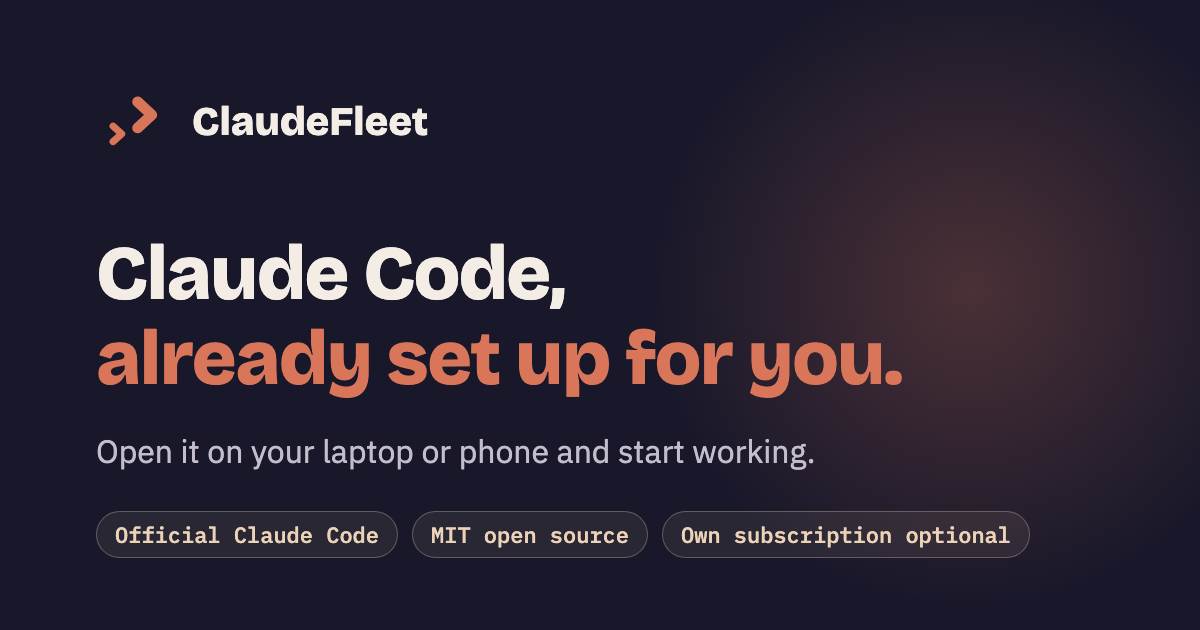
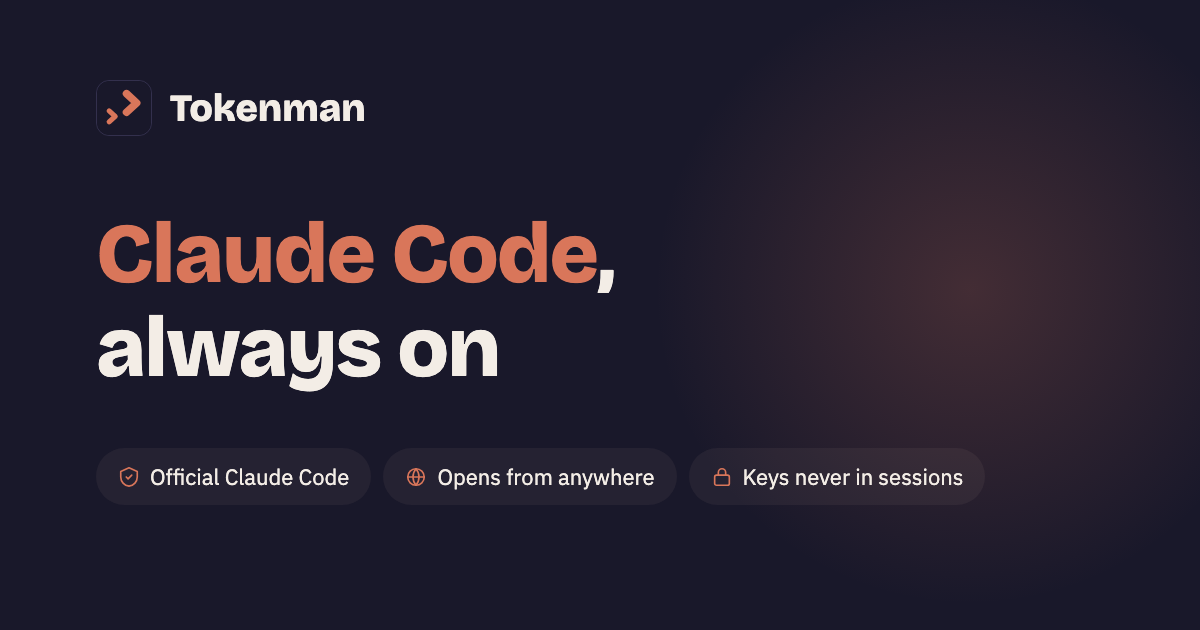
MXQP (SGS6 B1): 官网与文档换成 Tokenman — one brand key in site strings, docs and share cards read it
site/strings.{zh,en}.json gain brand (Tokenman) + brand_tag (zh: 随时在线的 Claude Code);
every other string says {brand}, filled by site-build. Template wordmark / og:site_name /
demo sidebar, legal frame + bodies, JSON-LD names, robots / llms headers all read it.
docs-build takes its name from the same key (was logo.svg's <title>, which B2 changes
together with the web-console / web-chat dist rebuild). Share cards redrawn from the
page's own brand, h1 and trust chips. Docs index titles and the FAQ's first line say
Tokenman.

diff --git a/site/template.html b/site/template.html
@@ -10,7 +10,7 @@
 <link rel="alternate" hreflang="en" href="__ORIGIN__/en/">
 <link rel="alternate" hreflang="x-default" href="__ORIGIN__/en/">
 <meta property="og:type" content="website">
-<meta property="og:site_name" content="ClaudeFleet">
+<meta property="og:site_name" content="{{brand}}">
 <meta property="og:title" content="{{title}}">
 <meta property="og:description" content="{{og_description}}">
 <meta property="og:url" content="__ORIGIN__{{path}}">
@@ -52,6 +52,7 @@ svg.i{fill:none;stroke:currentColor;stroke-width:1.8;stroke-linecap:round;stroke
 .nav .wrap{display:flex;align-items:center;height:60px;gap:14px}
 .brand{display:flex;align-items:center;gap:10px;font:750 19px/1 var(--fleet-font-display)}
 .brand svg{width:30px;height:30px}
+.brand .tag{margin-left:8px;font:500 12px/1.3 var(--fleet-font-ui);color:var(--fleet-ink-2)}
 .nav-r{margin-left:auto;display:flex;align-items:center;gap:22px;font-size:15px}
 .nav-r a{color:var(--fleet-ink-2)} .nav-r a:hover{color:var(--fleet-ink)}
 .lang{display:inline-flex;align-items:center;gap:5px;font:400 13px/1 var(--fleet-font-ui);color:var(--fleet-muted)!important}
@@ -192,7 +193,7 @@ footer .disc a{text-decoration:underline;text-underline-offset:2px}
 <svg width="0" height="0" style="position:absolute" aria-hidden="true"><symbol id="mk" viewBox="0 0 64 64"><rect width="64" height="64" rx="15" fill="var(--fleet-bg)" stroke="var(--fleet-line)"/><polyline points="14.4,35.5 21.6,42 14.4,48.5" fill="none" stroke="var(--fleet-clay)" stroke-width="6" stroke-linecap="round" stroke-linejoin="round"/><polyline points="35,15 47,26 35,37" fill="none" stroke="var(--fleet-clay)" stroke-width="9" stroke-linecap="round" stroke-linejoin="round"/></symbol><symbol id="wxm" viewBox="0 0 24 24"><path fill="#fff" d="M9.2 4C5.2 4 2 6.7 2 10.1c0 1.9 1 3.6 2.6 4.7l-.6 2 2.3-1.2c.9.3 1.9.4 2.9.4h.6a5.4 5.4 0 0 1-.2-1.5c0-3.3 3.1-5.9 7-5.9h.6C16.6 5.9 13.2 4 9.2 4zM6.8 7.6a.9.9 0 1 1 0 1.8.9.9 0 0 1 0-1.8zm4.8 0a.9.9 0 1 1 0 1.8.9.9 0 0 1 0-1.8zM16.6 10c-3.3 0-6 2.2-6 5s2.7 5 6 5c.7 0 1.4-.1 2-.3l1.9 1-.5-1.6c1.3-.9 2.6-2.4 2.6-4.1 0-2.8-2.7-5-6-5zm-2 2.6a.8.8 0 1 1 0 1.6.8.8 0 0 1 0-1.6zm4 0a.8.8 0 1 1 0 1.6.8.8 0 0 1 0-1.6z"/></symbol></svg>
 
 <header class="nav"><div class="wrap">
-  <a class="brand" href="{{path}}"><svg aria-hidden="true"><use href="#mk"/></svg>ClaudeFleet</a>
+  <a class="brand" href="{{path}}"><svg aria-hidden="true"><use href="#mk"/></svg>{{brand}}{{brand_tag_html}}</a>
   <div class="nav-r">
     <a class="docs" href="{{docs_path}}">{{docs}}</a>
     <a href="/app" data-out>{{signin}}</a>
@@ -257,7 +258,7 @@ footer .disc a{text-decoration:underline;text-underline-offset:2px}
       <div class="bar"><i></i><i></i><i></i><span class="url"><svg class="i" viewBox="0 0 24 24"><rect x="5" y="11" width="14" height="10" rx="2"/><path d="M8 11V8a4 4 0 0 1 8 0v3"/></svg>__HOST__/app</span></div>
       <div class="app">
         <div class="sb">
-          <div class="bd"><svg><use href="#mk"/></svg>ClaudeFleet</div>
+          <div class="bd"><svg><use href="#mk"/></svg>{{brand}}</div>
           <div class="it on"><span class="spin" id="sb-1"></span>{{sb_1}}</div>
           <div class="it"><span class="ok">✓</span>{{sb_2}}</div>
           <div class="it"><span class="ok">✓</span>{{sb_3}}</div>

diff --git a/site/legal.html b/site/legal.html
@@ -3,7 +3,7 @@
 <head>
 <meta charset="utf-8">
 <meta name="viewport" content="width=device-width, initial-scale=1">
-<title>{{legal_title}} · ClaudeFleet</title>
+<title>{{legal_title}} · {{brand}}</title>
 <meta name="description" content="{{legal_desc}}">
 <link rel="canonical" href="__ORIGIN__{{legal_path}}">
 <link rel="alternate" hreflang="zh-CN" href="__ORIGIN__{{legal_zh}}">
@@ -61,7 +61,7 @@ footer .disc a{text-decoration:underline;text-underline-offset:2px}
 </head>
 <body>
 <header class="nav"><div class="wrap">
-  <a class="brand" href="{{path}}"><img src="/site/logo.svg" alt="">ClaudeFleet</a>
+  <a class="brand" href="{{path}}"><img src="/site/logo.svg" alt="">{{brand}}</a>
   <div class="nav-r">
     <a href="{{path}}">{{legal_home}}</a>
     <a class="lang" href="{{legal_other}}" hreflang="{{other_hreflang}}" lang="{{other_hreflang}}" aria-label="{{lang_group}}: {{other_name}}"><svg class="i" viewBox="0 0 24 24" aria-hidden="true"><circle cx="12" cy="12" r="9"/><path d="M3 12h18M12 3a14 14 0 0 1 0 18M12 3a14 14 0 0 0 0 18"/></svg>{{lang_switch}}</a>

diff --git a/docs/public/en/faq.md b/docs/public/en/faq.md
@@ -6,7 +6,7 @@ Questions are written on this page only. The FAQ on the website's front page, th
 
 ### Why do I need to apply?
 <!-- faq: site -->
-ClaudeFleet is in limited access for now: every account stands for a real machine and real quota, so we open it in batches, as many people as we can look after. To use it, apply: tell us what you want it for, and we usually answer within a working day — on your WeChat if you signed in with WeChat. An application keeps only how you signed in, what you wrote on the form and the decision.
+Tokenman is in limited access for now: every account stands for a real machine and real quota, so we open it in batches, as many people as we can look after. To use it, apply: tell us what you want it for, and we usually answer within a working day — on your WeChat if you signed in with WeChat. An application keeps only how you signed in, what you wrote on the form and the decision.
 
 ### How is it different from installing Claude Code myself?
 <!-- faq: site -->

diff --git a/docs/public/zh/faq.md b/docs/public/zh/faq.md
@@ -6,7 +6,7 @@
 
 ### 为什么要申请才能用？
 <!-- faq: site -->
-ClaudeFleet 目前限定开放：每个账号背后是一台真机器和真额度，我们按照顾得过来的人数一批批放开。想用就申请：说说你想用它做什么，通常 1 个工作日内答复；用微信登录的，结果发到你的微信。申请只保存你的登录方式、表上填的内容和审核结果。
+Tokenman 目前限定开放：每个账号背后是一台真机器和真额度，我们按照顾得过来的人数一批批放开。想用就申请：说说你想用它做什么，通常 1 个工作日内答复；用微信登录的，结果发到你的微信。申请只保存你的登录方式、表上填的内容和审核结果。
 
 ### 和自己装 Claude Code 有什么不同？
 <!-- faq: site -->

diff --git a/site/legal/privacy.zh.md b/site/legal/privacy.zh.md
@@ -4,7 +4,7 @@
 
 更新日期：2026 年 10 月 21 日
 
-广州二四网络科技有限公司（下称「我们」）运营 ClaudeFleet（下称「本服务」）。本政策说明我们收集你的哪些信息、为什么收、存多久、谁能看，以及你怎样删除它们。你登录本服务，即表示你同意本政策。
+广州二四网络科技有限公司（下称「我们」）运营 {brand}（下称「本服务」）。本政策说明我们收集你的哪些信息、为什么收、存多久、谁能看，以及你怎样删除它们。你登录本服务，即表示你同意本政策。
 
 ## 1. 我们收集什么
 

diff --git a/site/legal/terms.zh.md b/site/legal/terms.zh.md
@@ -4,7 +4,7 @@
 
 更新日期：2026 年 10 月 21 日
 
-本协议是你与广州二四网络科技有限公司（下称「我们」）之间关于使用 ClaudeFleet（下称「本服务」）的约定。你登录本服务，即表示你已阅读并同意本协议和[《隐私政策》](/privacy)。
+本协议是你与广州二四网络科技有限公司（下称「我们」）之间关于使用 {brand}（下称「本服务」）的约定。你登录本服务，即表示你已阅读并同意本协议和[《隐私政策》](/privacy)。
 
 ## 1. 本服务是什么
 

diff --git a/site/legal/terms.en.md b/site/legal/terms.en.md
@@ -4,7 +4,7 @@
 
 Last updated: 21 October 2026
 
-These terms are an agreement between you and 广州二四网络科技有限公司 ("we") about your use of ClaudeFleet ("the service"). By signing in you confirm that you have read and agree to these terms and the [Privacy Policy](/en/privacy).
+These terms are an agreement between you and 广州二四网络科技有限公司 ("we") about your use of {brand} ("the service"). By signing in you confirm that you have read and agree to these terms and the [Privacy Policy](/en/privacy).
 
 ## 1. What the service is
 

diff --git a/site/legal/privacy.en.md b/site/legal/privacy.en.md
@@ -4,7 +4,7 @@
 
 Last updated: 21 October 2026
 
-广州二四网络科技有限公司 ("we") runs ClaudeFleet ("the service"). This policy says what we collect about you, why, how long we keep it, who can see it, and how you have it deleted. By signing in you agree to this policy.
+广州二四网络科技有限公司 ("we") runs {brand} ("the service"). This policy says what we collect about you, why, how long we keep it, who can see it, and how you have it deleted. By signing in you agree to this policy.
 
 ## 1. What we collect
 

diff --git a/docs/public/zh/index.md b/docs/public/zh/index.md
@@ -1,4 +1,4 @@
-# ClaudeFleet 帮助
+# Tokenman 帮助
 
 登录以后，在对话里说一句要做的事，会话会替你做完，做完提醒你；在电脑或手机上都能看、都能接着说。下面按你是谁找起点。
 

diff --git a/docs/public/en/index.md b/docs/public/en/index.md
@@ -1,4 +1,4 @@
-# ClaudeFleet help
+# Tokenman help
 
 Sign in, say in a chat what you need done, and a session does it and tells you when it is finished — on your computer or your phone. Find where to start by who you are.
 
